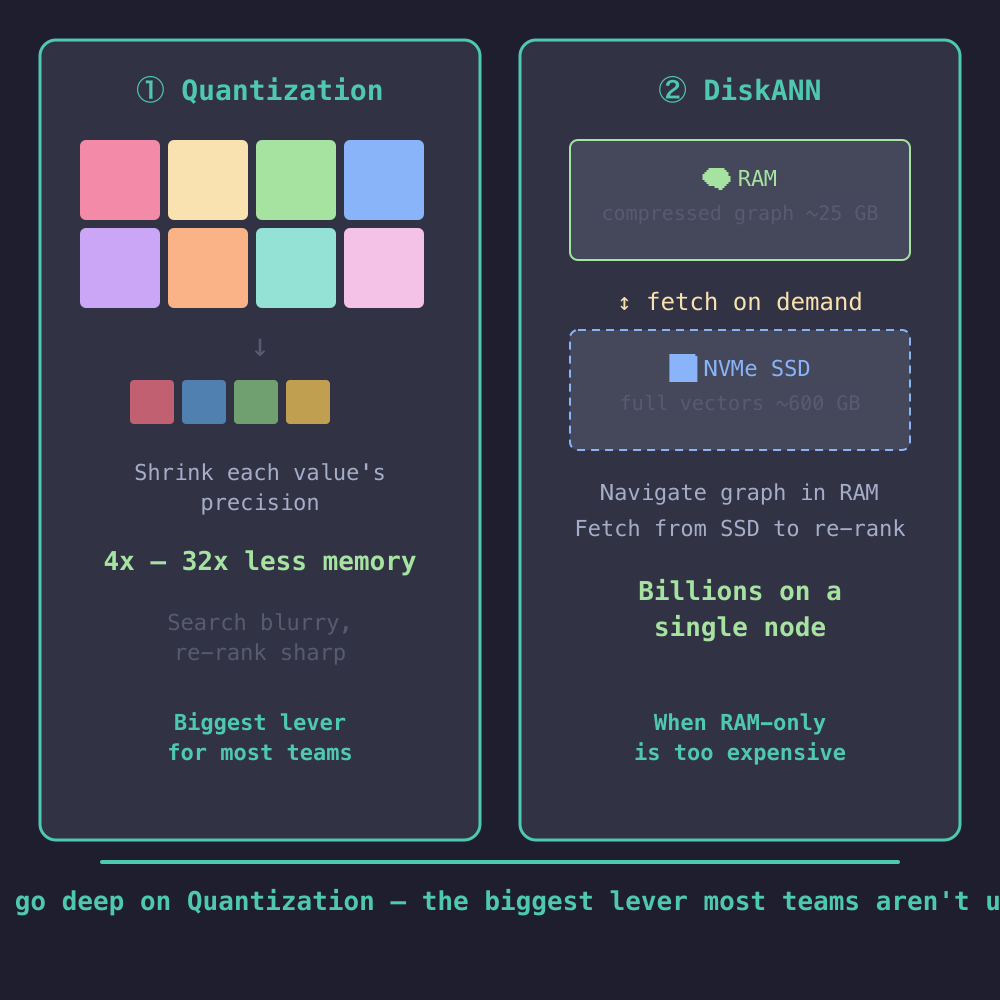
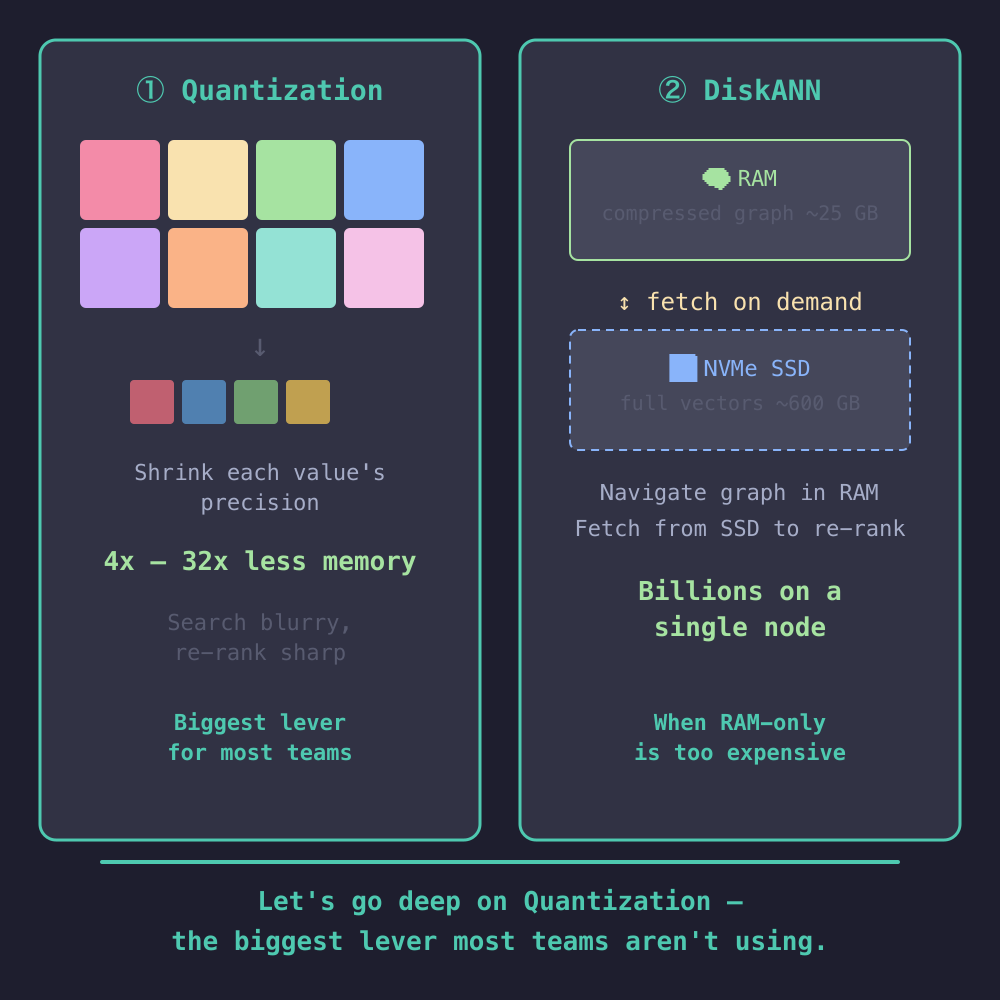
Enhance presentations: add B+ tree visual, expand acronyms, add DiskANN concepts, BM25/RRF appendix, consolidate slides, fix two-ways.png text cutoff, update blog references

Changed region(s): [[0.0, 0.868, 0.93, 0.961], [0.992, 0.899, 1.0, 0.93]]

diff --git a/vector_storage_at_scale.md b/vector_storage_at_scale.md
@@ -13,6 +13,8 @@ date: "April 2026"
 
 Every team is adding vector search. Few are planning for what happens next.
 
+The LLM layer is commoditising — the moat isn't the model, **it's your data.** RAG over internal knowledge (Confluence, SharePoint, Teams, emails, codebases) is where you differentiate: better tooling, better dev experience, better customer answers. Vector search isn't an experiment anymore — **it's core infrastructure.**
+
 <!-- pause -->
 
 **The pattern we keep seeing:**
@@ -124,21 +126,37 @@ against *every* vector. <span style="color: #f38ba8">At 100M rows, that's a prob
 
 # Why Vector Indexing Is Different
 
+<!-- column_layout: [1, 1] -->
+
+<!-- column: 0 -->
+
 **Traditional indexes** (B-tree) work on exact ordering: `WHERE id = 42` or `ORDER BY date`.
 There's a clear sort order. Binary search. O(log n). Done.
 
-<!-- pause -->
+![](images/btree.png)
 
-**Vector indexes** have no natural sort order. "Closest to this 1536-dimensional point"
-isn't something a B-tree can answer.
+<!-- column: 1 -->
+
+**Vector indexes** have no natural sort order.
+
+```
+A = [0.21, 0.87, 0.14, ..., 0.53]
+B = [0.93, 0.12, 0.38, ..., 0.71]
+C = [0.34, 0.76, 0.22, ..., 0.48]
+```
+Which comes first — A or B? There's no "less than" for 1536 dimensions.
 
 **Exact search = check every vector.** That's too slow at scale.
 
+**But what if we don't need the *exact* closest — just <span style="color: #a6e3a1">*close enough*</span>?**
+
 ![](images/gifs/exact-search-slow.png)
+
+<!-- reset_layout -->
 
 <!-- end_slide -->
 
-# How ANN Indexes Work
+# How ANN (Approximate Nearest Neighbor) Indexes Work
 
 **You need specialized structures to search without checking everything:**
 
@@ -146,7 +164,7 @@ isn't something a B-tree can answer.
 
 <!-- column: 0 -->
 
-**<span style="color: #4EC9B0">IVFFlat</span>** — <span style="color: #f9e2af">Cluster & search</span>
+**<span style="color: #4EC9B0">IVFFlat (Inverted File with Flat Compression)</span>** — <span style="color: #f9e2af">Cluster & search</span>
 
 Divide vectors into clusters (k-means).
 At query time, search only nearest cluster(s).
@@ -158,7 +176,7 @@ then check every restaurant there."*
 
 <!-- column: 1 -->
 
-**<span style="color: #4EC9B0">HNSW</span>** — <span style="color: #f9e2af">Multi-layer graph</span>
+**<span style="color: #4EC9B0">HNSW (Hierarchical Navigable Small World)</span>** — <span style="color: #f9e2af">Multi-layer graph</span>
 
 Build a navigable graph with layers.
 Top = express highways. Bottom = local streets.
@@ -172,6 +190,10 @@ then local roads."*
 
 <!-- pause -->
 
+<span style="color: #a6e3a1">**We're running this in production today.**</span>
+
+<!-- pause -->
+
 <span style="color: #f38ba8">**Both assume vectors live in RAM.**</span> <span style="color: #f9e2af">That's fine at 1M vectors.
 At 100M? Let's do the math.</span>
 
@@ -180,7 +202,7 @@ At 100M? Let's do the math.</span>
 # The RAM Wall
 
 **Everyone wants to build AI on their own data.
-Leadership wants to know why the infrastructure bill just tripled.**
+<span style="color: #f38ba8">Leadership wants to know why the infrastructure bill just tripled.</span>**
 
 ![](images/gifs/this-is-fine.gif)
 
@@ -195,13 +217,14 @@ Per vector:  1536 dims × 4 bytes = 6,144 bytes ≈ 6 KB
 | 100M | 614 GB | ~920 GB | ~$5,000+/mo |
 | 1B | 6.1 TB | ~9.2 TB | 💀 |
 
-*HNSW overhead varies 30-80% depending on M parameter. Using 50% as realistic default.*
+*HNSW overhead varies 30-80% depending on M parameter (max edges per node — higher M = more connections per layer = better recall but more RAM). Using 50% as realistic default.*
 
 <!-- pause -->
 
 **The cliff isn't linear.** Going from 64 GB → 920 GB RAM means jumping from
-a single node to a distributed cluster. <span style="color: #f38ba8">That's not 15x cost —
-it's 30-50x operational complexity.</span>
+a single node to a distributed cluster.
+
+<span style="color: #f38ba8">That's not 15x cost — it's 30-50x operational complexity.</span>
 
 <!-- end_slide -->
 
@@ -324,7 +347,7 @@ python scripts/quantization_demo.py
 | Binary (1-bit) | 192 MB | ~10%* | Fast but imprecise alone |
 | Binary + re-rank | 192 MB + disk | ~99% | The production pattern |
 
-*\*BQ recall without re-rank is model-dependent (75-95%). Re-ranking recovers to 92-96%.*
+*\*BQ recall without re-rank is model-dependent (45-95%). Re-ranking recovers to 92-96%.*
 
 <!-- pause -->
 
@@ -335,7 +358,7 @@ using XOR. Then you only fetch ~200 full vectors from disk to re-rank.
 
 <!-- end_slide -->
 
-# DiskANN: Beyond HNSW
+# DiskANN (Disk-based Approximate Nearest Neighbor): Beyond HNSW
 
 **Quantization shrinks the vectors. But at hundreds of millions of vectors, the graph structure itself still needs significant RAM.**
 
@@ -363,6 +386,16 @@ using XOR. Then you only fetch ~200 full vectors from disk to re-rank.
 *Q-HNSW: quantized index in RAM, full vectors on disk.*
 *Costs: AWS on-demand.*
 
+<!-- pause -->
+
+**What makes this possible:**
+- **Vamana graph** — single-layer, disk-optimized
+- **Medoid start node** — search starts from the most central point
+- **Beam search with PQ** — navigate in RAM, fetch from SSD
+- **Low graph degree** — ~64-128 neighbors, compact on disk
+
+**<span style="color: #f9e2af">How?</span>** Vamana builds edges with two rules: keep *short-range* neighbors (nearby points for precision) and *long-range* neighbors (distant points for shortcuts). Every node gets both. A few long-range hops get you to the right neighborhood, then short-range hops zero in. 🚗 → ✈ → 🚆 → 🛺
+
 <!-- reset_layout -->
 
 <!-- end_slide -->
@@ -388,14 +421,9 @@ LIMIT 10;
 **⚠ The vector index only knows about distance —
 it's blind to your metadata.**
 
-Whether it's HNSW, IVFFlat, or DiskANN,
-the index can't natively combine
-"nearest vectors" with "matching metadata"
-in one step.
-
-If only 2% of rows match your filter,
-most ANN candidates get thrown away.
-You asked for 10 results. You might get 0.
+- HNSW, IVFFlat, DiskANN — none can combine "nearest vectors" + "matching metadata" in one step
+- 2% of rows match your filter → most ANN candidates get thrown away
+- Asked for 10 results → might get 0
 
 <!-- end_slide -->
 
@@ -497,10 +525,6 @@ LIMIT 10;
 <!-- end_slide -->
 
 # Now that pgvector handles quantization, DiskANN, and filtered search — do you still need a separate vector DB?
-
-<!-- end_slide -->
-
-# The Architecture Decision
 
 ![](images/architecture-decision.png)
 
@@ -610,24 +634,6 @@ Recall
 
 <!-- end_slide -->
 
-# References
-
-- **DiskANN Paper** — github.com/microsoft/DiskANN
-- **DiskANN on Azure PostgreSQL** — techcommunity.microsoft.com/blog/adforpostgresql/diskann-on-azure-database-for-postgresql-now-generally-available/4414723
-- **HNSW Memory Overhead** — lantern.dev/blog/calculator
-- **pgvector** — github.com/pgvector/pgvector
-- **pgvectorscale (StreamingDiskANN)** — github.com/timescale/pgvectorscale
-- **Embedding Quantization** — huggingface.co/blog/embedding-quantization
-- **Weaviate Rotational Quantization** — weaviate.io/blog/8-bit-rotational-quantization
-- **Elastic BBQ** — elastic.co/search-labs/blog/bbq-implementation-into-use-case
-- **Filtered HNSW** — qdrant.tech/articles/filtrable-hnsw
-- **ParadeDB (BM25 + vector)** — paradedb.com
-- **The Case Against pgvector** — alex-jacobs.com/posts/the-case-against-pgvector
-- **Vector DB Hype is Over** — estuary.dev/blog/the-vector-database-hype-is-over
-- **Matryoshka Embeddings** — platform.openai.com/docs/guides/embeddings
-
-<!-- end_slide -->
-
 # The End
 
 <!-- column_layout: [2, 1] -->
@@ -641,8 +647,7 @@ Recall
 📬 **Get in touch:**
 <span style="color: #89b4fa">jeevan.dc24@alumni.iimb.ac.in</span>
 
-🌐 **Blog:**
-<span style="color: #89b4fa">https://noobj.me/</span>
+🌐 **I write at** <span style="color: #89b4fa">noobj.me</span> *(a place where others cannot comment)*
 
 <!-- column: 1 -->
 
@@ -831,9 +836,9 @@ then fetch full FP32 vectors and re-rank to get the true top 10.
 | **Model-sensitive?** | <span style="color: #a6e3a1">No</span> | <span style="color: #a6e3a1">No</span> | <span style="color: #a6e3a1">Low</span> | <span style="color: #f9e2af">Medium</span> | <span style="color: #f38ba8">High</span> |
 | **Best for** | Small scale | Easy first win | General purpose | Massive datasets | Speed-critical |
 
-*\*BQ recall without re-rank varies by model (75% for e5-base-v2 to 95% for Cohere-v3, per HuggingFace MTEB benchmarks).*
+*\*BQ recall without re-rank varies by model (45% for e5-base-v2 to 95% for Cohere-v3, per HuggingFace MTEB benchmarks).*
 *Speed multipliers are for distance computation, not additive on top of ANN index speedups.*
-*Sources: huggingface.co/blog/embedding-quantization, weaviate.io/blog/8-bit-rotational-quantization, mongodb.com/blog/post/binary-quantization-rescoring-96-less-memory-faster-search*
+*Sources: [6], [7], [14]*
 
 <!-- end_slide -->
 
@@ -852,7 +857,7 @@ then fetch full FP32 vectors and re-rank to get the true top 10.
 | **When to use** | < 10K vectors | Batch/analytics | Production, < 50M | 50M-1B | Large + hybrid |
 
 *\*HNSW 100M build time assumes parallel builds. Single-threaded can be 5-10x longer.*
-*Sources: milvus.io/blog/diskann-explained, lantern.dev/blog/calculator, ann-benchmarks.com, github.com/microsoft/DiskANN*
+*Sources: [16], [3], [15], [1]*
 
 <!-- end_slide -->
 
@@ -991,3 +996,74 @@ SET diskann.query_search_list_size = 150;
 *Key: DiskANN trades ~5-10ms extra latency for 10-30x less RAM. The query SQL doesn't change — only the index type.*
 
 <!-- end_slide -->
+
+<!-- end_slide -->
+
+# Appendix: BM25 in PostgreSQL (ParadeDB)
+
+```sql
+-- Install the extension
+CREATE EXTENSION pg_search;
+
+-- Create a BM25 index
+CREATE INDEX ON docs USING bm25 (content);
+
+-- Search with real BM25 scoring
+SELECT *, paradedb.score(id) AS bm25_score
+FROM docs
+WHERE content @@@ 'VACUUM deadlock'
+ORDER BY bm25_score DESC LIMIT 10;
+```
+
+*ParadeDB wraps Tantivy (Rust search engine) inside Postgres — proper BM25 with IDF, term frequency saturation, and document length normalization.*
+
+<!-- end_slide -->
+
+# Appendix: Hybrid Search — BM25 + Vector with RRF
+
+**Reciprocal Rank Fusion** — combine rankings without normalizing scores.
+
+```sql
+WITH bm25 AS (
+  SELECT id, ROW_NUMBER() OVER (ORDER BY paradedb.score(id) DESC) AS rank
+  FROM docs
+  WHERE content @@@ 'VACUUM deadlock'
+  LIMIT 100
+),
+vector AS (
+  SELECT id, ROW_NUMBER() OVER (ORDER BY embedding <=> $query) AS rank
+  FROM docs
+  ORDER BY embedding <=> $query
+  LIMIT 100
+)
+SELECT COALESCE(b.id, v.id) AS id,
+       COALESCE(1.0/(60 + b.rank), 0)
+     + COALESCE(1.0/(60 + v.rank), 0) AS rrf_score
+FROM bm25 b
+FULL OUTER JOIN vector v ON b.id = v.id
+ORDER BY rrf_score DESC
+LIMIT 10;
+```
+
+*`k=60` is the standard constant from the RRF paper — dampens high-rank dominance. RRF only cares about rank position, not raw scores, so it works across any two retrieval methods.*
+
+<!-- end_slide -->
+
+# References
+
+1. **DiskANN Paper** — github.com/microsoft/DiskANN
+2. **DiskANN on Azure PostgreSQL** — techcommunity.microsoft.com/blog/adforpostgresql/diskann-on-azure-database-for-postgresql-now-generally-available/4414723
+3. **HNSW Memory Overhead** — lantern.dev/blog/calculator
+4. **pgvector** — github.com/pgvector/pgvector
+5. **pgvectorscale (StreamingDiskANN)** — github.com/timescale/pgvectorscale
+6. **Embedding Quantization** — huggingface.co/blog/embedding-quantization
+7. **Weaviate Rotational Quantization** — weaviate.io/blog/8-bit-rotational-quantization
+8. **Elastic BBQ** — elastic.co/search-labs/blog/bbq-implementation-into-use-case
+9. **Filtered HNSW** — qdrant.tech/articles/filtrable-hnsw
+10. **ParadeDB (BM25 + vector)** — paradedb.com
+11. **The Case Against pgvector** — alex-jacobs.com/posts/the-case-against-pgvector
+12. **Vector DB Hype is Over** — estuary.dev/blog/the-vector-database-hype-is-over
+13. **Matryoshka Embeddings** — platform.openai.com/docs/guides/embeddings
+14. **MongoDB Binary Quantization** — mongodb.com/blog/post/binary-quantization-rescoring-96-less-memory-faster-search
+15. **ANN Benchmarks** — ann-benchmarks.com
+16. **DiskANN Explained** — milvus.io/blog/diskann-explained

diff --git a/vector_search_fundamentals.md b/vector_search_fundamentals.md
@@ -908,8 +908,7 @@ Migrate only if you outgrow it.
 📬 **Get in touch:**
 <span style="color: #89b4fa">jeevan.dc24@alumni.iimb.ac.in</span>
 
-🌐 **Blog:**
-<span style="color: #89b4fa">https://noobj.me/</span>
+🌐 **I write at** <span style="color: #89b4fa">noobj.me</span> *(a place where others cannot comment)*
 
 <!-- column: 1 -->
 
